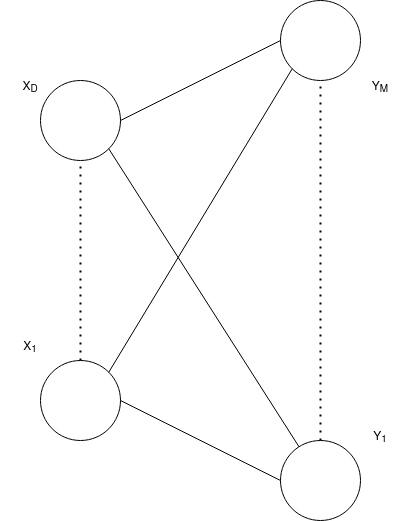
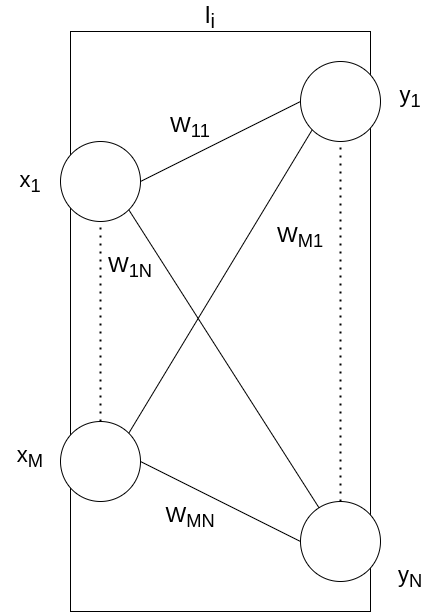
rewrote multiple subsections

diff --git a/neural-networks.tex b/neural-networks.tex
@@ -1,15 +1,41 @@
 \section{Neural networks}%
 \label{sec:Neural networks}
 
-A neural network is a machine learning model, that consists of a set of layers. Neural networks are used to recognize patterns in data and be able to classify it. The way it works is by having some input data that can be used as a input to the network, and then be propageted through each layer. In an untrained network the output would not make much sense, but by training the network with known input and expected output data, a network can give quite accurate results.
+A neural network is a machine learning model, that consists of a stack of layers. Neural networks are used to recognize patterns in data and be able to classify it. As an example in a self driving car a neural network could be used to recognize different real world objects, such as signs or pedestrians.
+
+The way it works is by having some input data that can be used as a input to the network, and then be propageted through each layer. Propagation means that the data travel from one layer to the next and the layer's operation is applied to the network. \autoref{fig:example_nn} shows  a representation of a neural network with a couple of layers. In the example the white bar is a layer. The layer applies some operation to the input of the layer. Where the input of the layer is coming from the arrow that points to the layer. The input to the network is a vector $\bm{x}$ and the output of the network is a vector $\bm{y}$.
+
+\begin{figure}
+    \centering
+    \includegraphics[width=0.7\textwidth]{assets/nn-simple-example.png}
+    \caption{A simple neural network with 2 layers. \texttt{act} means an activation function is applied}
+    \label{fig:example_nn}
+\end{figure}
+
+In \autoref{sub:network_training} it will be shown how a network can be trained to recognize patterns and be able to classify. A network can be trained with the help of a loss function, loss functions are functions that calculates how far from the correct output the network is.
+% \autoref{fig:nn_out} shows the output probabilities   
+When data is propagated through the network to the output, the network puts a probability on each output, the output that has the highest probability is what the network predicts as the classification.
+The actual training aims to try to minimize the loss function, which makes it a problem of gradient descent, this will be described more in \autoref{sub:network_training}.
 
 \subsection{Fully connected layer}%
 \label{sub:Fully connected layer}
 
 The fully connected layer is also known as a dense layer or a linear layer.
-The input can be represented as neurons and synapses, with $D$ input neurons and $M$ output neurons. Each input neuron will be connected by synapses to all output neurons.
-This layer's input can be represented as a vector $\bm{x}$ and the output can also be represented as a vector $\bm{y}$.
-In \autoref{fig:neural_network} it is illustrated what is the input, a connection and the output.
+The fully connected layer can be used in deep learning after multiple convolutional layers, which will be discussed in \autoref{sub:nn_conv}.
+Multiple fully connected layers can be stacked to create a multilayer perceptron. A multilayer perceptron can be used for classifying data that is linearly seperable \cite{perceptron}.
+
+The layer consists of $M$ input neurons and $N$ output neurons. A neuron in this example is just a place to store a value.
+The layer also consists of $M\times N$ synapses.
+\autoref{fig:linear_example} shows an example representation of a fully connected layer. Each input neuron is connected to each output neuron with a synapse represented by a line. And \autoref{fig:neural_network} shows a generalization of the fully connected layer.
+
+\begin{figure}
+    \centering
+    \includegraphics[width=0.5\textwidth]{assets/linear-layer-example.png}
+    \caption{An illustration of a fully connected layer with 3 input neurons and 4 output neurons. The white bar in the background should illustrate that we are looking closer at a layer from \autoref{fig:example_nn}. (Only two weights are labeled here, but each line represents a weight in $\bm{W}$)}
+    \label{fig:linear_example}
+\end{figure}
+
+The fully connected layers's input can be represented as a vector $\bm{x}$ and the output can also be represented as a vector $\bm{y}$.
 
 \begin{figure}
     \centering
@@ -19,33 +45,40 @@ In \autoref{fig:neural_network} it is illustrated what is the input, a connectio
 \end{figure}
 
 
-The synapses works by having a weight which is multiplied to the value from the input.
+The synapses works by having a weight which is multiplied to the value from the input when the value is propagated through the layer.
 The weights of the synapses can be represented as a matrix $\bm{W}$, which will now be referred to as the weights.
 The weight $w_{ij}$ corresponds to the weight between input $i$ and output $j$.
-Where $i = 1, ..., D$ and $j = 1, ..., M$.
+Where $i = 1, ..., M$ and $j = 1, ..., N$.
 
-When data is propagated through this layer, it goes from the input through a synapse, where it is multiplied by the weight and then each value that ends in that output is summed together.
+\autoref{fig:linear_propagation} shows what happens when input is propagated to an output neuron. When data is propagated through the layer, it moves from the input neuron through a synapse, where it is multiplied by the weight and then each value that ends in that output is summed together.
 
+\begin{figure}
+    \centering
+    \includegraphics[width=0.6\textwidth]{assets/linear-layer-linear-propagation.drawio.png}
+    \caption{Forward propagation of a fully connected layer for a single output, where the bold lines are the ones that are being used.}
+    \label{fig:linear_propagation}
+\end{figure}
+
+The following formula shows this without the bias.
 $$y''_j = \sum_{i=0}^D w_{ji}x_i  $$
-
-Once the data has reached the output, there should also be added a bias, which can make the layer be able to fit better to the desired result.
-The bias $\bm{b}$ can be represented as a vector with the same length as the output $M$.
+After this step, a bias should be added as shown in \autoref{fig:linear_propagation}, the bias is added such that the layer can fit better to the data during training.
+The bias $\bm{b}$ can be represented as a vector with the same length as the output $\bm{y}$ of length $N$.
 
 $$y'_j = b_j + \sum_{i=0}^D w_{ji}x_i$$
 
-The vector $\bm{y'}$ can thus be represented as a vector to matrix multiplication and adding the bias vector
+The vector $\bm{y'}$ can thus be represented as a matrix-vector multiplication and adding the bias vector
 
 $$\bm{y'} = \bm{b} + \bm{W}\bm{x}$$
 
-At last there should be applied an activation function, this will be denoted $\sigma$.
-So $y_j$ becomes
-
-$$y_j = \sigma \left(y'_j\right)$$
+At last, each output should apply an activation function $\bm{\sigma}$, activation functions are described in \autoref{sub:Activation functions}.
+After applying the activation function $\bm{y}$ becomes
+$$\bm{y} = \bm{\sigma} \left(\bm{y}'\right)$$
 
 \subsection{Activation functions}%
 \label{sub:Activation functions}
 
-Activation functions have an important role in neural networks, since they can introduce non-linearity. This is important when training the network.
+Activation functions have an important role in neural networks, since they can introduce non-linearity. This is important when training the network, because it can help the network converge toward a minima.
+The activation function has it's name because it can tell if a neuron should "activate" or not. Consider the sigmoid function, when the input is less than 0 the output is close to $0$, and when it is greater than 0 it is close to 1. So the neuron can be called activated if the output of the neuron is close to 1.
 Some common activation functions can be seen in \autoref{tab:activation}.
 
 \begin{table}[H]
@@ -60,15 +93,20 @@ softmax  & $\frac{e^{y'}}{\sum^K_{k=1} e^{y'_k}}$ \\\hline
 \caption{A list of common activation functions.}
 \label{tab:activation}
 \end{table}
+ReLU and softmax are the ones used in ResNet and seems to be the more popular choice, since it seems that these functions make the network converge faster during training.
 
-\subsection{Convolutional layer}
+\subsection{Convolutional layer}%
+\label{sub:nn_conv}
 
-A neural network with one or more convolutional layers are called a convolutional neural network.
-The convolutional layer is often takes a three dimensional input, where the two dimensions can be an image and the third dimension is the channels. The channels of an image is most often the different color channels such as red, green and blue.
+\guillemotleft A convolutional neural network, or CNN, is a deep learning neural network designed for processing structured arrays of data such as images \guillemotright \cite{conv_article}.
 
-The goal of a convolutional layer is to detect certain features, in the given input. The network will be able to detect more and more complex features depending on how many convolutional layers the network has.
+A convolutional layer might take a three dimensional input, which corresponds to an image. Where the first dimension is the different channels, this could be different colors, such as red, green and blue. The next two dimensions is the actual image.
 
-The convolutional layer works by having a kernel $\bm{K}$ that convolves through the input. The kernel should not be confused with kernels in cuda, it is also known as a filter. The kernel has the same number of dimensions as the input, but the sizes of the image dimensions of the kernel should be less than or equal to the image dimensions of the input. This can be seen on \autoref{fig:conv_input_and_kernel}.
+The goal of a convolutional layer is to detect certain features, in the given input data. The network will be able to detect more and more complex features depending on how many convolutional layers the network has.
+
+\autoref{fig:conv_input_and_kernel} shows an example input dataset $\bm{X}$ and an example kernel\footnote{The kernel may also be called a filter in other sources.} $\bm{K}$.
+\autoref{fig:conv_operation} shows an example of the convolutional operation, with a single channel. It could in fact have multiple channels which would then be added to the output, still with a single kernel that has the same number of channels as the input. The output will only have a single channel.
+The kernel should have the same number of dimensions as the input data, but the size of the kernel should be less than or equal to the image, this can also be seen on \autoref{fig:conv_input_and_kernel}.
 
 \begin{figure}
     \centering
@@ -90,7 +128,7 @@ The convolutional layer works by having a kernel $\bm{K}$ that convolves through
 \end{figure}
 
 
-The convolutional operation works by taking the dotproduct of the kernel with a slice of the input, then adding a bias and applying the activation function. This is done for each channel with the same slice. These values are then stored in the output. This is repeated for a new slice until the the end of the input. The operaion is visualized in \autoref{fig:conv_operation}, the result will be $\bm{Y}''$, to get $\bm{Y}$ there needs to be added a bias and used an activation function.
+The convolutional operation works by taking the dotproduct of the kernel with a slice of the input. It is not really possible to take the dotproduct of two matrices, so it is assumed that they are flattened to vectors.  This is done for each channel with the same slice, adding it all together in the output. Then adding a bias and applying the activation function. This is repeated for a new slice until the the end of the input is reached.
 
 \begin{figure}
     \centering
@@ -130,29 +168,48 @@ The convolutional operation works by taking the dotproduct of the kernel with a 
     \label{fig:conv_operation}
 \end{figure}
 
+\begin{figure}
+    \centering
+    $$\begin{bmatrix}
+        \color{red} X_{11} & \color{red} X_{12} & X_{13} & X_{14} \\
+        \color{red} X_{21} & \color{red} X_{22} & X_{23} & X_{24} \\
+        X_{31} & X_{32} & X_{33} & X_{34}
+    \end{bmatrix} \otimes K \Rightarrow ...$$\\
+    $$\begin{bmatrix}
+        X_{11} & X_{12} & \color{red} X_{13} & \color{red} X_{14} \\
+        X_{21} & X_{22} & \color{red} X_{23} & \color{red} X_{24} \\
+        X_{31} & X_{32} & X_{33} & X_{34}
+    \end{bmatrix} \otimes K \Rightarrow ...$$\\
+    \caption{Based on \autoref{fig:conv_operation}, but with an extra column on $X$ and a stride of 2 ($s_x = 2$, $s_y=2$). As it can be seen the values in the bottom of $X$ is never used in this example.}
+    \label{fig:conv_operation_with_stride}
+\end{figure}
+
+The operation can end up with multiple output channels, there will be one output channel per kernel in the layer.
+
+\autoref{fig:conv_operation_with_stride} shows how the stride can affect the output. In simple terms the stride describes how many steps there should be between each slice to be used.
+
 To put it as a formula for the 2 dimensional image,
 let $\bm{X}$ be the input,
 $\bm{Y}$ be the output.
-$\bm{b}$ be a vector of the bias with the length equal to the number of output channels.
+$b$ the bias.
 $C_{in}$ the number of input channels.
 $\bm{K}$ the kernel.
 $k_x$ and $k_y$ the size of the kernel and $s_x$ and $s_y$ be the stride which the kernel is moving through the image.
 
-$$Y_{ijc_{out_l}} = b_{c_{out_l}} + \sum^{C_{in}}_{c = 1} \sum^{i \cdot s_x + k_x}_{i_2 = i \cdot s_x} \sum^{j \cdot s_y + k_y}_{j_2 = j \cdot s_y} X_{i_2j_2c} K_{i_2j_2c} $$
+$$Y_{ij} = b + \sum^{C_{in}}_{c = 1} \sum^{i \cdot s_x + k_x}_{i_2 = i \cdot s_x} \sum^{j \cdot s_y + k_y}_{j_2 = j \cdot s_y} X_{ci_2j_2} K_{ci_2j_2} $$
 
-Where $i$ is the index in the first image dimension, $j$ is the index in the second image dimension and $c_{out_l}$ is the current output chnanel.
+Where $i$ is the index in the first image dimension, $j$ is the index in the second image dimension.
 
-$i$, $j$ and $l$ are in the following ranges
+$i$ and $j$ are in the following ranges
 
-$$i = 1, ..., \frac{n_x - k_x}{s_x} + 1$$
-$$j = 1, ..., \frac{n_y - k_y}{s_y} + 1$$
-$$l = 1, ..., C_{out}$$
+$$i = 1, ..., \left\lfloor\frac{n_x - k_x}{s_x}\right\rfloor + 1$$
+$$j = 1, ..., \left\lfloor\frac{n_y - k_y}{s_y}\right\rfloor + 1$$
 
 Where $n_x$ and $n_y$ are the image dimensions.
 
 This means the dimensions of $\bm{Y}$ is
 
-$$\left(C_{out}\right) \times \left(\frac{n_x - k_x}{s_x} + 1\right) \times \left(\frac{n_y - k_y}{s_y} + 1\right) $$
+$$\left(\frac{n_x - k_x}{s_x} + 1\right) \times \left(\frac{n_y - k_y}{s_y} + 1\right) $$
 
 \subsection{Maxpooling layer}
 
